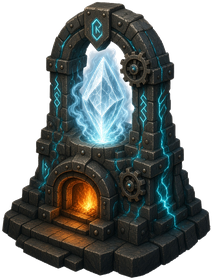
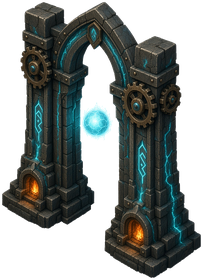
Differentiate late station silhouettes and show +resource floats
- Rebuild Crucible / Gemcutter / Aetherforge as cauldron, workbench+wheel,
  and open arch so forms read apart while keeping the stone/rune style
- Float +N Glass/Alloy/… above running stations as whole units accrue

diff --git a/src/sim/economy.ts b/src/sim/economy.ts
@@ -464,11 +464,26 @@ export function claimExpedition(
   return { ok: true, state: next, event: { type: 'claim_expedition', doubled } };
 }
 
+/** Per-station outputs produced during a single production tick. */
+export type StationTickGain = {
+  stationId: StationId;
+  outputs: Partial<Record<ResourceId, number>>;
+};
+
 export function tickProduction(state: GameState, dt: number): GameState {
-  if (dt <= 0) return state;
+  return tickProductionDetailed(state, dt).state;
+}
+
+/** Same as tickProduction, but also reports station output deltas for VFX. */
+export function tickProductionDetailed(
+  state: GameState,
+  dt: number,
+): { state: GameState; stationGains: StationTickGain[] } {
+  if (dt <= 0) return { state, stationGains: [] };
   const next = structuredClone(state);
   const effects = effectsFor(next);
   const pMult = effects.stationOutput;
+  const stationGains: StationTickGain[] = [];
 
   const autoRate = getAutoMineRate(next);
   if (autoRate > 0) {
@@ -506,17 +521,55 @@ export function tickProduction(state: GameState, dt: number): GameState {
       }
     }
 
+    const outputs: Partial<Record<ResourceId, number>> = {};
     for (const [key, rate] of Object.entries(def.outputs) as [ResourceId, number][]) {
       const gained = rate * levelMult * pMult * dt;
       next.resources[key] += gained;
+      outputs[key] = (outputs[key] ?? 0) + gained;
       if (key === 'ore') {
         recordOreMined(next, gained);
       }
     }
+    if (Object.keys(outputs).length > 0) {
+      stationGains.push({ stationId: def.id, outputs });
+    }
   }
 
   next.playTimeSec += dt;
-  return next;
+  return { state: next, stationGains };
+}
+
+/**
+ * Fold fractional station gains into whole-unit floaters (e.g. +1 Glass).
+ * Leftover fractions stay in `pending` until the next call.
+ */
+export function drainStationGainFloaters(
+  pending: Partial<Record<StationId, Partial<Record<ResourceId, number>>>>,
+  gains: StationTickGain[],
+): {
+  pending: Partial<Record<StationId, Partial<Record<ResourceId, number>>>>;
+  floaters: { stationId: StationId; resource: ResourceId; amount: number }[];
+} {
+  const nextPending: Partial<Record<StationId, Partial<Record<ResourceId, number>>>> = {
+    ...pending,
+  };
+  const floaters: { stationId: StationId; resource: ResourceId; amount: number }[] = [];
+
+  for (const gain of gains) {
+    const bag = { ...(nextPending[gain.stationId] ?? {}) };
+    for (const [key, amount] of Object.entries(gain.outputs) as [ResourceId, number][]) {
+      if (!(amount > 0)) continue;
+      const total = (bag[key] ?? 0) + amount;
+      const whole = Math.floor(total);
+      bag[key] = total - whole;
+      if (whole >= 1) {
+        floaters.push({ stationId: gain.stationId, resource: key, amount: whole });
+      }
+    }
+    nextPending[gain.stationId] = bag;
+  }
+
+  return { pending: nextPending, floaters };
 }
 
 /**

diff --git a/src/game/GameApp.ts b/src/game/GameApp.ts
@@ -1,6 +1,7 @@
 import { SIM_DT, BALANCE } from '../data/balance';
 import type { ExpeditionId } from '../data/expeditions';
 import type { RecipeId } from '../data/recipes';
+import type { ResourceId } from '../data/resources';
 import type { StationId } from '../data/stations';
 import type { TalentId } from '../data/talents';
 import { AudioBus } from '../audio/audio';
@@ -20,12 +21,14 @@ import {
   clickVein,
   completeExpeditionIfReady,
   craftRecipe,
+  drainStationGainFloaters,
   getAutoMineRate,
   prestige,
   rushExpedition,
   startExpedition,
   adjustStationRunLevel,
-  tickProduction,
+  tickProductionDetailed,
+  type StationTickGain,
   toggleStation,
   unlockStation,
   upgradeStation,
@@ -54,6 +57,10 @@ export class GameApp {
   private running = false;
   private pausedForAd = false;
   private lastStratumId = '';
+  /** Fractional leftovers until a whole-unit +N floater can fire. */
+  private stationGainPending: Partial<
+    Record<StationId, Partial<Record<ResourceId, number>>>
+  > = {};
 
   constructor(
     canvas: HTMLCanvasElement,
@@ -141,7 +148,9 @@ export class GameApp {
     if (!this.pausedForAd && this.overlayMode === 'none') {
       this.accum += dt;
       while (this.accum >= SIM_DT) {
-        this.state = tickProduction(this.state, SIM_DT);
+        const tick = tickProductionDetailed(this.state, SIM_DT);
+        this.state = tick.state;
+        this.emitStationGainFloaters(tick.stationGains);
         this.applyAchievements(true);
         const ready = completeExpeditionIfReady(this.state);
         this.state = ready.state;
@@ -259,6 +268,19 @@ export class GameApp {
 
     if (was === 'loot' || was === 'prestige' || was === 'milestone') {
       void this.maybeMidgame(was === 'loot' ? 'expedition_claim' : was === 'prestige' ? 'prestige' : 'milestone');
+    }
+  }
+
+  private emitStationGainFloaters(gains: StationTickGain[]) {
+    if (!gains.length) return;
+    const drained = drainStationGainFloaters(this.stationGainPending, gains);
+    this.stationGainPending = drained.pending;
+    for (const floater of drained.floaters) {
+      this.scene.triggerStationGain(
+        floater.stationId,
+        floater.resource,
+        floater.amount,
+      );
     }
   }
 
@@ -592,6 +614,7 @@ export class GameApp {
       return;
     }
     this.state = result.state;
+    this.stationGainPending = {};
     this.applyAchievements(true);
     this.audio.prestige();
     this.scene.triggerCraftBurst();

diff --git a/src/forge/ForgeScene.ts b/src/forge/ForgeScene.ts
@@ -2,7 +2,7 @@ import { Application, Assets, Container, Graphics, Sprite, Text, Texture } from 
 import type { GameState } from '../sim/types';
 import { stationRunMult } from '../sim/economy';
 import { getStation, STATIONS, type StationId } from '../data/stations';
-import type { ResourceId } from '../data/resources';
+import { RESOURCES, type ResourceId } from '../data/resources';
 import type { SceneView } from './sceneView';
 import {
   FORGE_FOCUS,
@@ -437,6 +437,31 @@ export class ForgeScene {
         color: stationId === 'enchanter' ? COLORS.cyan : COLORS.ember,
       });
     }
+  }
+
+  /** Floating +N Glass / Alloy / … when a station completes a whole resource unit. */
+  triggerStationGain(stationId: StationId, resource: ResourceId, amount: number) {
+    if (this.view !== 'forge' || amount <= 0) return;
+    const slot = this.stationLayout().find((s) => s.id === stationId);
+    if (!slot) return;
+    const def = RESOURCES.find((r) => r.id === resource);
+    const short = def?.short ?? resource;
+    const fill = parseCssHex(def?.color) ?? getStation(stationId).visualTint;
+    const label = new Text({
+      text: `+${trimAmount(amount)} ${short}`,
+      style: {
+        fontFamily: 'DM Sans, sans-serif',
+        fontSize: 15,
+        fontWeight: '700',
+        fill,
+        dropShadow: { color: 0x0b1c22, blur: 4, distance: 1, alpha: 0.85 },
+      },
+    });
+    label.anchor.set(0.5, 1);
+    label.x = slot.x + (Math.random() * 18 - 9);
+    label.y = slot.y - 28 - Math.random() * 10;
+    this.floatLayer.addChild(label);
+    this.floaters.push({ text: label, life: 1.05, max: 1.05, vy: -40 });
   }
 
   /** Pop-in animation when a station is purchased */
@@ -1509,4 +1534,9 @@ function trimAmount(n: number): string {
   if (n >= 100) return Math.floor(n).toString();
   const t = Math.round(n * 10) / 10;
   return t.toString().replace(/\.0$/, '');
+}
+
+function parseCssHex(color?: string): number | null {
+  if (!color || !/^#[0-9a-fA-F]{6}$/.test(color)) return null;
+  return Number.parseInt(color.slice(1), 16);
 }

diff --git a/src/sim/stationGains.test.ts b/src/sim/stationGains.test.ts
@@ -1,0 +1,40 @@
+import { describe, expect, it } from 'vitest';
+import { createInitialState } from './createState';
+import {
+  drainStationGainFloaters,
+  tickProductionDetailed,
+  unlockStation,
+} from './economy';
+
+describe('station production gain VFX', () => {
+  it('reports emberglass gained from a fueled smelter tick', () => {
+    let state = createInitialState();
+    state.resources.ore = 100;
+    const unlocked = unlockStation(state, 'smelter');
+    expect(unlocked.ok).toBe(true);
+    if (!unlocked.ok) return;
+    state = unlocked.state;
+    state.resources.ore = 50;
+
+    const { state: next, stationGains } = tickProductionDetailed(state, 1);
+    expect(next.resources.emberglass).toBeGreaterThan(0);
+    const smelter = stationGains.find((g) => g.stationId === 'smelter');
+    expect(smelter?.outputs.emberglass).toBeGreaterThan(0);
+  });
+
+  it('emits whole-unit floaters and keeps fractional remainder', () => {
+    const first = drainStationGainFloaters({}, [
+      { stationId: 'smelter', outputs: { emberglass: 0.7 } },
+    ]);
+    expect(first.floaters).toEqual([]);
+    expect(first.pending.smelter?.emberglass).toBeCloseTo(0.7);
+
+    const second = drainStationGainFloaters(first.pending, [
+      { stationId: 'smelter', outputs: { emberglass: 0.5 } },
+    ]);
+    expect(second.floaters).toEqual([
+      { stationId: 'smelter', resource: 'emberglass', amount: 1 },
+    ]);
+    expect(second.pending.smelter?.emberglass).toBeCloseTo(0.2);
+  });
+});
